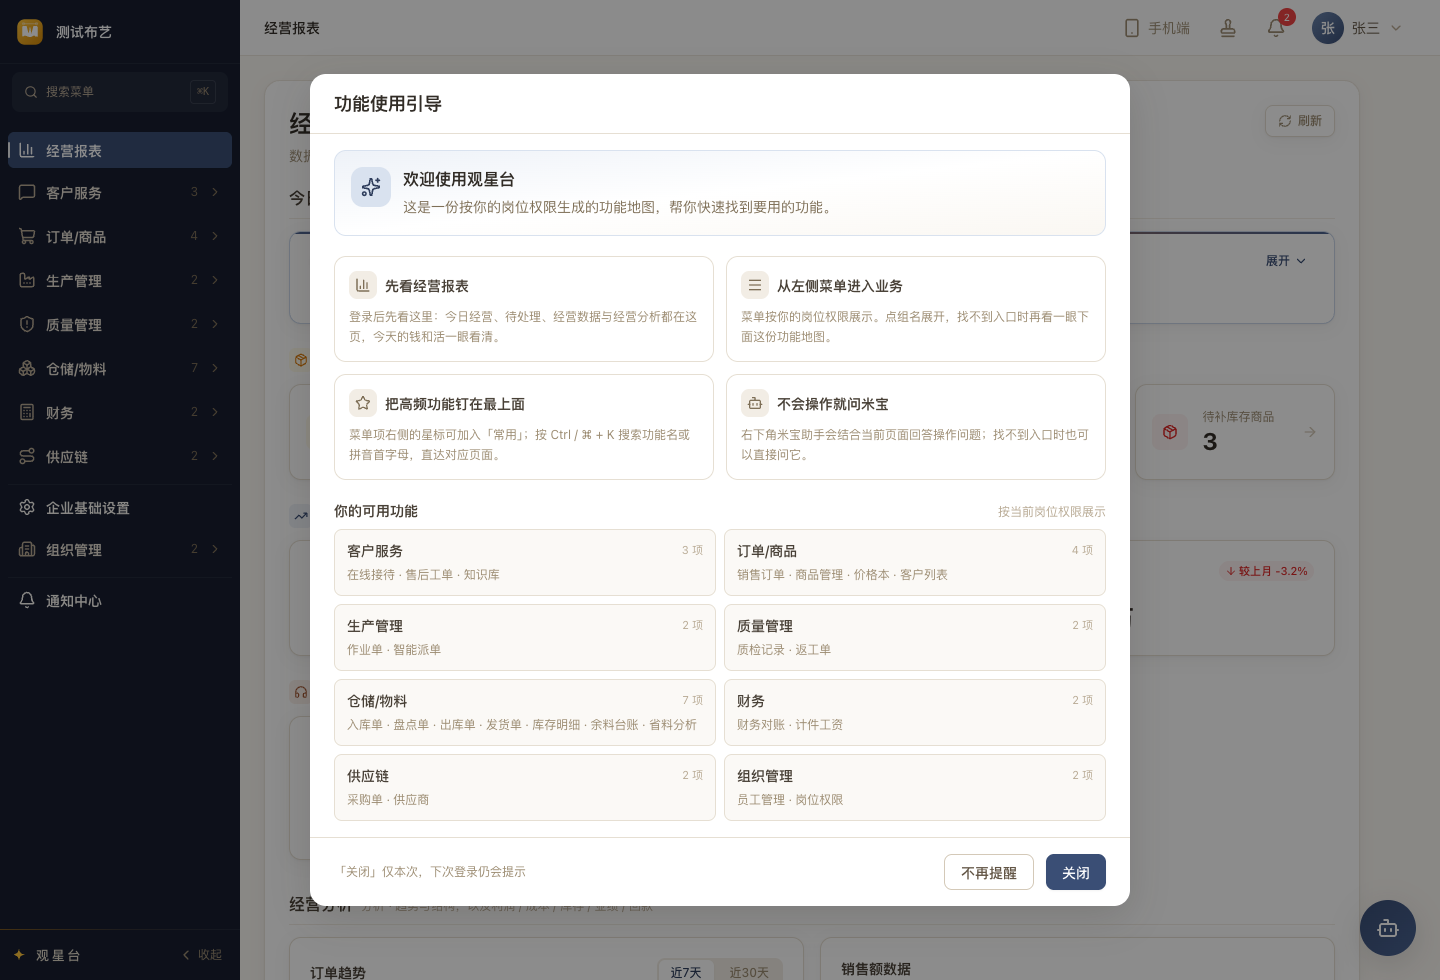
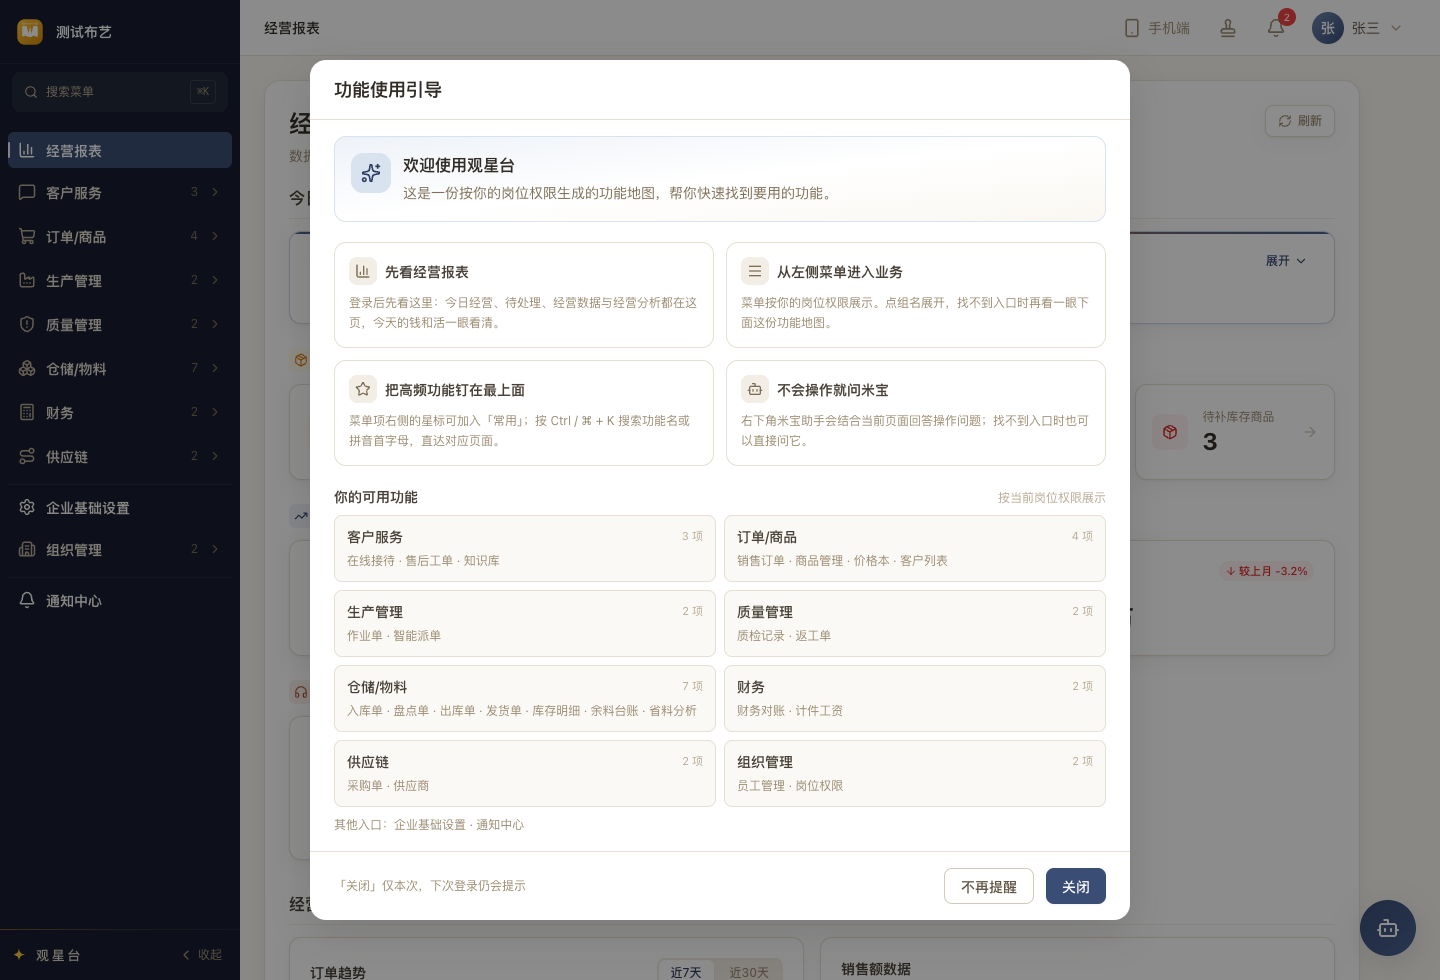
feat(admin-web): 引导补「其他入口」并刷新截图（issue #8925）
- 功能地图之外补企业基础设置 / 通知中心（同一权限过滤；通知中心无码）
- 刷新 After 截图

diff --git a/frontend/admin-web/src/components/onboarding/FeatureGuide.tsx b/frontend/admin-web/src/components/onboarding/FeatureGuide.tsx
@@ -6,6 +6,7 @@ import Modal from '@/components/ui/Modal'
 import Button from '@/components/ui/Button'
 import { useAuthStore } from '@/store/auth'
 import {
+  buildFeatureGuideExtraEntries,
   buildFeatureGuideModules,
   dismissFeatureGuide,
   featureGuideUserKey,
@@ -46,6 +47,7 @@ export default function FeatureGuide({ enabled = true }: FeatureGuideProps) {
   const permissions = user.permissions || []
   const roles = user.roles || []
   const modules = buildFeatureGuideModules(permissions, roles)
+  const extraEntries = buildFeatureGuideExtraEntries(permissions, roles)
   const canSeeDashboard = permissions.includes('*') || permissions.includes('dashboard:view')
   const canUseMibao = user.capabilities?.mibaoChat === true
 
@@ -176,6 +178,11 @@ export default function FeatureGuide({ enabled = true }: FeatureGuideProps) {
               className="rounded-lg border border-dashed border-neutral-200 bg-neutral-50 px-3 py-4 text-sm text-neutral-500"
             >
               当前账号还没有可见菜单，请联系企业管理员配置岗位权限。
+            </p>
+          )}
+          {extraEntries.length > 0 && (
+            <p data-testid="feature-guide-extra-entries" className="mt-2 text-xs leading-5 text-neutral-500">
+              其他入口：{extraEntries.join(' · ')}
             </p>
           )}
         </div>

diff --git a/frontend/admin-web/src/lib/feature-guide.ts b/frontend/admin-web/src/lib/feature-guide.ts
@@ -21,8 +21,8 @@
 // 不同步**。要跨端同步需要服务端偏好表 + 迁移 + 端点；本轮不做，PR 里如实登记。
 
 import type { User } from '@/types'
-import { menuGroups } from '@/config/menu'
-import { visibleMenuGroups } from '@/lib/menu-nav'
+import { menuGroups, standaloneItems, standaloneTopItems } from '@/config/menu'
+import { filterMenuItems, visibleMenuGroups } from '@/lib/menu-nav'
 
 /** 引导内容版本：改版后想让老用户重新看到，升版本即可自然换新键。 */
 export const FEATURE_GUIDE_VERSION = 1
@@ -177,4 +177,18 @@ export function buildFeatureGuideModules(
     name: group.name,
     items: group.children.map((item) => item.name),
   }))
+}
+
+
+/**
+ * 引导里的「其他入口」：不在分组里的顶层菜单项（企业基础设置 / 通知中心）。
+ * 与功能地图同一套权限过滤（通知中心没有权限码 ⇒ 登录即可见）。
+ */
+export function buildFeatureGuideExtraEntries(
+  permissions: string[] = [],
+  roles: string[] = [],
+): string[] {
+  return filterMenuItems([...standaloneTopItems, ...standaloneItems], { permissions, roles }).map(
+    (item) => item.name,
+  )
 }

diff --git a/frontend/admin-web/tests/unit/lib/feature-guide.test.ts b/frontend/admin-web/tests/unit/lib/feature-guide.test.ts
@@ -4,6 +4,7 @@ import {
   FEATURE_GUIDE_DISMISSED_PREFIX,
   FEATURE_GUIDE_PENDING_KEY,
   FEATURE_GUIDE_SHOWN_KEY,
+  buildFeatureGuideExtraEntries,
   buildFeatureGuideModules,
   dismissFeatureGuide,
   featureGuideDismissedKey,
@@ -151,5 +152,11 @@ describe('feature-guide：功能地图按权限派生', () => {
 
   it('空权限 ⇒ 空地图（页面显示可行动的空态，而不是假装有功能）', () => {
     expect(buildFeatureGuideModules([], [])).toEqual([])
+  })
+
+  it('「其他入口」= 不在分组里的顶层项，按权限裁剪', () => {
+    expect(buildFeatureGuideExtraEntries(['*'], ['admin'])).toEqual(['企业基础设置', '通知中心'])
+    // 客服没有 production:view ⇒ 企业基础设置不可见；通知中心无权限码 ⇒ 仍可见
+    expect(buildFeatureGuideExtraEntries(['agent:session'], ['customer_service'])).toEqual(['通知中心'])
   })
 })

diff --git a/frontend/admin-web/tests/unit/components/FeatureGuide.test.tsx b/frontend/admin-web/tests/unit/components/FeatureGuide.test.tsx
@@ -57,6 +57,8 @@ describe('FeatureGuide 首次登录引导（issue #8925，UI-153）', () => {
     expect(screen.getByText('「关闭」仅本次，下次登录仍会提示')).toBeVisible()
     expect(screen.getAllByTestId('feature-guide-step')).toHaveLength(4)
     expect(screen.getByTestId('feature-guide-module-customer-service')).toHaveTextContent('在线接待')
+    expect(screen.getByTestId('feature-guide-extra-entries')).toHaveTextContent('企业基础设置')
+    expect(screen.getByTestId('feature-guide-extra-entries')).toHaveTextContent('通知中心')
 
     // 展示即消费 pending + 记 shown
     expect(hasFeatureGuideShown()).toBe(true)
